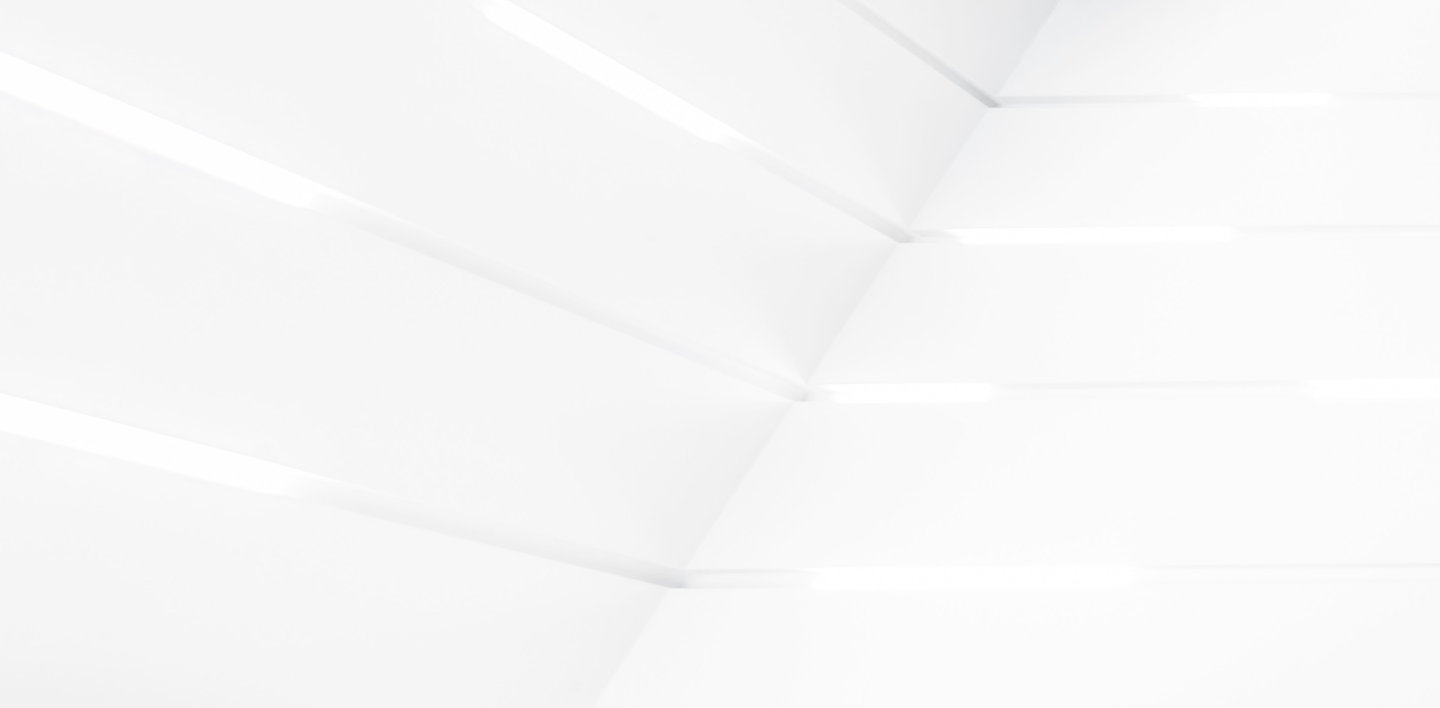
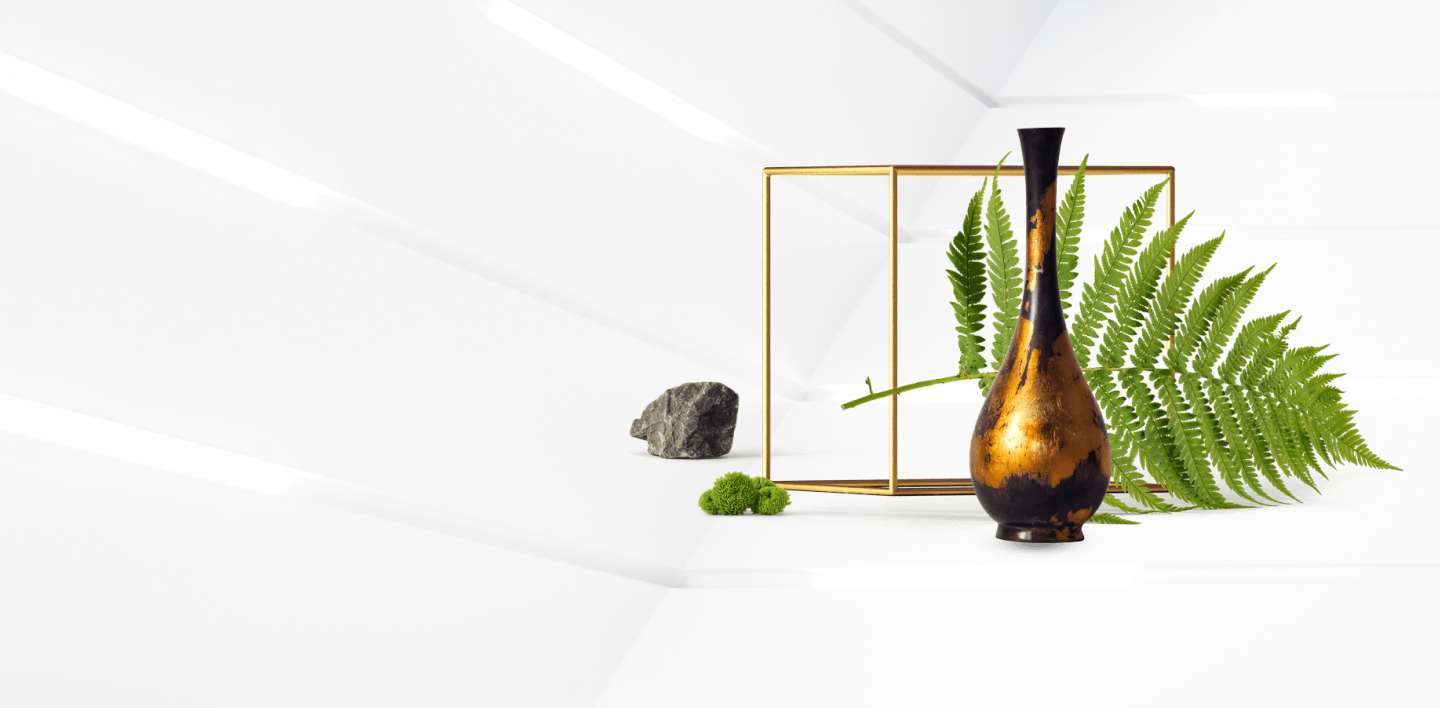
intro block

Changed region(s): [[0.4375, 0.1554, 0.9688, 0.7768]]

diff --git a/imdex.html b/imdex.html
@@ -10,7 +10,7 @@
     <link rel="preconnect" href="https://fonts.googleapis.com">
     <link rel="preconnect" href="https://fonts.gstatic.com" crossorigin>
     <link
-        href="https://fontsgoogleapis.com/css2?family=Libre+Franklin:wght@100&family=Montserrat&family=Pacifico&family=Poppins:wght@100;300&family=Rubik:wght@300&display=swap"
+        href="https://fonts.googleapis.com/css2?family=Libre+Franklin:wght@100&family=Montserrat&family=Pacifico&family=Playfair+Display&family=Poppins:wght@100;300&family=Rubik:wght@300&display=swap"
         rel="stylesheet">
 </head>
 
@@ -37,15 +37,39 @@
                             </ul>
                         </div>
                     </div>
-              
+
 
 
             </header>
         </div>
-            <div class="intro">
-dsdsds
+        <div class="intro">
+            <div class="intro_wrapper">
+                <div class="intro_block">
+                    <div class="pottery">
+                        <div class="pottery_desc_top">
+                            Pompeo POttery
+                        </div>
+                        <div class="pompeo_title">
+                            <div class="unique">Unique Porcelain   <div class="i">&
+                            </div></div>   <div class="stone">
+                                Stone Collection
+                            </div>
+                          
+                        </div>
+                        <div class="text_pottery">
+                        Unique & modern pottery made by our master in porcelain & stones
+                        </div>
+                        <div class="btn_collection">
+                            Shop Collection
+                        </div>
+                    </div>
+                    <div class="img_intro">
+                    
+                    </div>
+                </div>
             </div>
         </div>
+    </div>
     </div>
 
 </body>

diff --git a/style/style.css b/style/style.css
@@ -14,7 +14,7 @@ body {
 
     font-family: 'Libre Franklin', sans-serif;
 
-
+overflow: hidden ;
     height: 100%;
 }
 
@@ -140,5 +140,100 @@ display: inline;
    
     background: url(../img/bg_into.png) no-repeat center ;
     background-size:cover;
-    height: 708px; dsd
+    height: 708px; 
+}
+
+.intro_wrapper{
+    max-width: 1152px;
+    margin: 0 auto;
+    
+}
+.intro_block{
+    display: flex;
+    padding-top: 95px;
+
+
+
+}
+.pottery{
+    margin-top: 97px;
+
+}
+.pottery_desc_top{
+
+font-family: 'Poppins',sans-serif;
+font-style: normal;
+font-weight: 700;
+font-size: 14px;
+line-height: 24px;
+
+/* identical to box height, or 171% */
+
+letter-spacing: 2px;
+text-transform: uppercase;
+
+color: #D77474;
+
+
+}
+.pompeo_title{
+    
+font-family: 'Poppins',sans-serif;
+font-style: normal;
+font-weight: 700;
+font-size: 48px;
+line-height: 58px;
+
+
+color: #000000;
+}
+.img_intro{
+    margin-top: 33px;
+}
+
+.i{
+    display: inline;
+    font-family: 'Playfair Display';
+font-style: normal;
+font-weight: 400;
+font-size: 68px;
+line-height: 68px;
+
+/* identical to box height, or 100% */
+
+color: #AC1313;
+
+
+}
+.text_pottery{
+    
+font-family: 'Libre Franklin',sans-serif;
+font-style: normal;
+font-weight: 400;
+font-size: 16px;
+line-height: 26px;
+margin-top: 14px;
+/* identical to box height, or 162% */
+
+color: #6C6C6C;
+}
+.btn_collection{
+    margin-top: 70px;
+    width: 201px;
+    background: #AC1313;
+border-radius: 0px;
+padding-left: 40px;
+padding-top: 20px;
+padding-bottom: 21px;
+padding-right: 31px;
+font-family: 'Poppins';
+font-style: normal;
+font-weight: 700;
+font-size: 12px;
+line-height: 22px;
+
+letter-spacing: 1px;
+text-transform: uppercase;
+
+color: #FFFFFF;
 }
